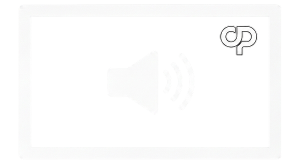
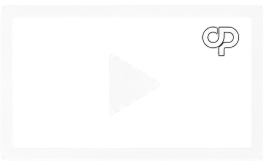
feat: improve UI with media metadata and application source
- Add application source, image dimensions, and file size to ClipboardItemViewModel.
- Implement OnItemAdded event in ClipboardService for real-time list updates.
- Limit history to 20 items in MainViewModel.
- Update MainWindow.xaml with a card footer for media metadata and icons.
- Update audio and video icons.
- Perform minor cleanup in WindowsThumbnailExtractor.cs.

Changed region(s): [[0.7245, 0.1524, 0.9057, 0.3659]]

diff --git a/CopyPaste.UI/MainWindow.xaml b/CopyPaste.UI/MainWindow.xaml
@@ -149,6 +149,43 @@
                                 <TextBlock Text="Archivo no disponible" FontSize="11" Foreground="#FFAA00" Opacity="0.9"/>
                             </StackPanel>
 
+                            <!-- Footer: App Source (left) + Media Info (right) -->
+                            <Grid Grid.Row="2" Margin="0,8,0,0">
+                                <Grid.ColumnDefinitions>
+                                    <ColumnDefinition Width="*"/>
+                                    <ColumnDefinition Width="Auto"/>
+                                </Grid.ColumnDefinitions>
+
+                                <!-- App Source - Left -->
+                                <StackPanel Grid.Column="0" 
+                                            Orientation="Horizontal" 
+                                            Visibility="{x:Bind AppSourceVisibility}"
+                                            Opacity="0.5">
+                                    <FontIcon Glyph="&#xE737;" FontSize="10" Margin="0,0,4,0"/>
+                                    <TextBlock Text="{x:Bind AppSource}" FontSize="10" TextTrimming="CharacterEllipsis" MaxWidth="150"/>
+                                </StackPanel>
+
+                                <!-- Media Info (Duration + Dimensions + Size) - Right -->
+                                <StackPanel Grid.Column="1" 
+                                            Orientation="Horizontal" 
+                                            Visibility="{x:Bind MediaInfoVisibility}"
+                                            Opacity="0.5"
+                                            Spacing="8">
+                                    <StackPanel Orientation="Horizontal" Visibility="{x:Bind DurationVisibility}">
+                                        <FontIcon Glyph="&#xE916;" FontSize="10" Margin="0,0,4,0"/>
+                                        <TextBlock Text="{x:Bind MediaDuration}" FontSize="10"/>
+                                    </StackPanel>
+                                    <StackPanel Orientation="Horizontal" Visibility="{x:Bind ImageDimensionsVisibility}">
+                                        <FontIcon Glyph="&#xE799;" FontSize="10" Margin="0,0,4,0"/>
+                                        <TextBlock Text="{x:Bind ImageDimensions}" FontSize="10"/>
+                                    </StackPanel>
+                                    <StackPanel Orientation="Horizontal" Visibility="{x:Bind FileSizeVisibility}">
+                                        <FontIcon Glyph="&#xE7C3;" FontSize="10" Margin="0,0,4,0"/>
+                                        <TextBlock Text="{x:Bind FileSize}" FontSize="10"/>
+                                    </StackPanel>
+                                </StackPanel>
+                            </Grid>
+
                             <StackPanel x:Name="ActionPanel" 
                                         Grid.Row="0" Grid.RowSpan="2"
                                         Orientation="Horizontal" 

diff --git a/CopyPaste.UI/ClipboardItemViewModel.cs b/CopyPaste.UI/ClipboardItemViewModel.cs
@@ -121,6 +121,81 @@ public partial class ClipboardItemViewModel : ObservableObject
 
     public Visibility FileWarningVisibility => IsFileType && !IsFileAvailable ? Visibility.Visible : Visibility.Collapsed;
 
+    // App Source (bottom left)
+    public string? AppSource => Model.AppSource;
+    public Visibility AppSourceVisibility => !string.IsNullOrEmpty(AppSource) ? Visibility.Visible : Visibility.Collapsed;
+
+    // Image dimensions from metadata
+    public string? ImageDimensions => GetImageDimensions();
+    public Visibility ImageDimensionsVisibility => ImageDimensions != null ? Visibility.Visible : Visibility.Collapsed;
+
+    // File size from metadata
+    public string? FileSize => GetFileSize();
+    public Visibility FileSizeVisibility => FileSize != null ? Visibility.Visible : Visibility.Collapsed;
+
+    // Media info visibility (duration + size for video/audio/image)
+    public Visibility MediaInfoVisibility =>
+        Model.Type is ClipboardContentType.Video or ClipboardContentType.Audio or ClipboardContentType.Image
+            ? Visibility.Visible : Visibility.Collapsed;
+
+    private string? GetFileSize()
+    {
+        if (string.IsNullOrEmpty(Model.Metadata)) return null;
+
+        try
+        {
+            using var doc = JsonDocument.Parse(Model.Metadata);
+            
+            // Try "file_size" first (used for files), then "size" (used for images)
+            if (doc.RootElement.TryGetProperty("file_size", out var fileSizeProp))
+            {
+                return FormatFileSize(fileSizeProp.GetInt64());
+            }
+            
+            if (doc.RootElement.TryGetProperty("size", out var sizeProp))
+            {
+                return FormatFileSize(sizeProp.GetInt64());
+            }
+        }
+        catch (JsonException) { }
+
+        return null;
+    }
+
+    private static string FormatFileSize(long bytes)
+    {
+        string[] sizes = ["B", "KB", "MB", "GB"];
+        int order = 0;
+        double size = bytes;
+
+        while (size >= 1024 && order < sizes.Length - 1)
+        {
+            order++;
+            size /= 1024;
+        }
+
+        return $"{size:0.#} {sizes[order]}";
+    }
+
+    private string? GetImageDimensions()
+    {
+        if (Model.Type != ClipboardContentType.Image) return null;
+        if (string.IsNullOrEmpty(Model.Metadata)) return null;
+
+        try
+        {
+            using var doc = JsonDocument.Parse(Model.Metadata);
+            if (doc.RootElement.TryGetProperty("width", out var widthProp) &&
+                doc.RootElement.TryGetProperty("height", out var heightProp))
+            {
+                return $"{widthProp.GetInt64()}×{heightProp.GetInt64()}";
+            }
+        }
+        catch (JsonException) { }
+
+        return null;
+    }
+
     private bool CheckFirstFileExists()
     {
         if (string.IsNullOrEmpty(Model.Content)) return false;

diff --git a/CopyPaste.UI/MainViewModel.cs b/CopyPaste.UI/MainViewModel.cs
@@ -21,6 +21,7 @@ public partial class MainViewModel : ObservableObject
     public MainViewModel(ClipboardService service)
     {
         _service = service;
+        _service.OnItemAdded += OnItemAdded;
         _service.OnThumbnailReady += OnThumbnailReady;
         LoadHistory();
     }
@@ -40,6 +41,18 @@ public partial class MainViewModel : ObservableObject
             Items.Add(new ClipboardItemViewModel(item, OnDeleteItem, OnPasteItem, OnPinItem));
         }
     }
+
+    private void OnItemAdded(ClipboardItem item) =>
+        _dispatcherQueue?.TryEnqueue(() =>
+        {
+            Items.Insert(0, new ClipboardItemViewModel(item, OnDeleteItem, OnPasteItem, OnPinItem));
+
+            // Limit visible items
+            while (Items.Count > 20)
+            {
+                Items.RemoveAt(Items.Count - 1);
+            }
+        });
 
     private void OnThumbnailReady(ClipboardItem item) =>
     _dispatcherQueue?.TryEnqueue(() =>

diff --git a/CopyPaste.Core/ClipboardService.cs b/CopyPaste.Core/ClipboardService.cs
@@ -14,6 +14,9 @@ public class ClipboardService(IClipboardRepository repository)
     [System.Diagnostics.CodeAnalysis.SuppressMessage("Design", "CA1003: primitive object")]
     public event Action<ClipboardItem>? OnThumbnailReady;
 
+    [System.Diagnostics.CodeAnalysis.SuppressMessage("Design", "CA1003: primitive object")]
+    public event Action<ClipboardItem>? OnItemAdded;
+
     public void AddText(string? text, ClipboardContentType type, string? source, byte[]? rtfBytes = null)
     {
         if (string.IsNullOrWhiteSpace(text)) return;
@@ -99,6 +102,7 @@ public class ClipboardService(IClipboardRepository repository)
         }
 
         repository.Save(item);
+        OnItemAdded?.Invoke(item);
 
         if (item.Type == ClipboardContentType.Image && imageData != null)
         {

diff --git a/CopyPaste.Core/WindowsThumbnailExtractor.cs b/CopyPaste.Core/WindowsThumbnailExtractor.cs
@@ -1,5 +1,4 @@
 using System.Runtime.InteropServices;
-using System.Runtime.InteropServices.Marshalling;
 
 namespace CopyPaste.Core;
 
